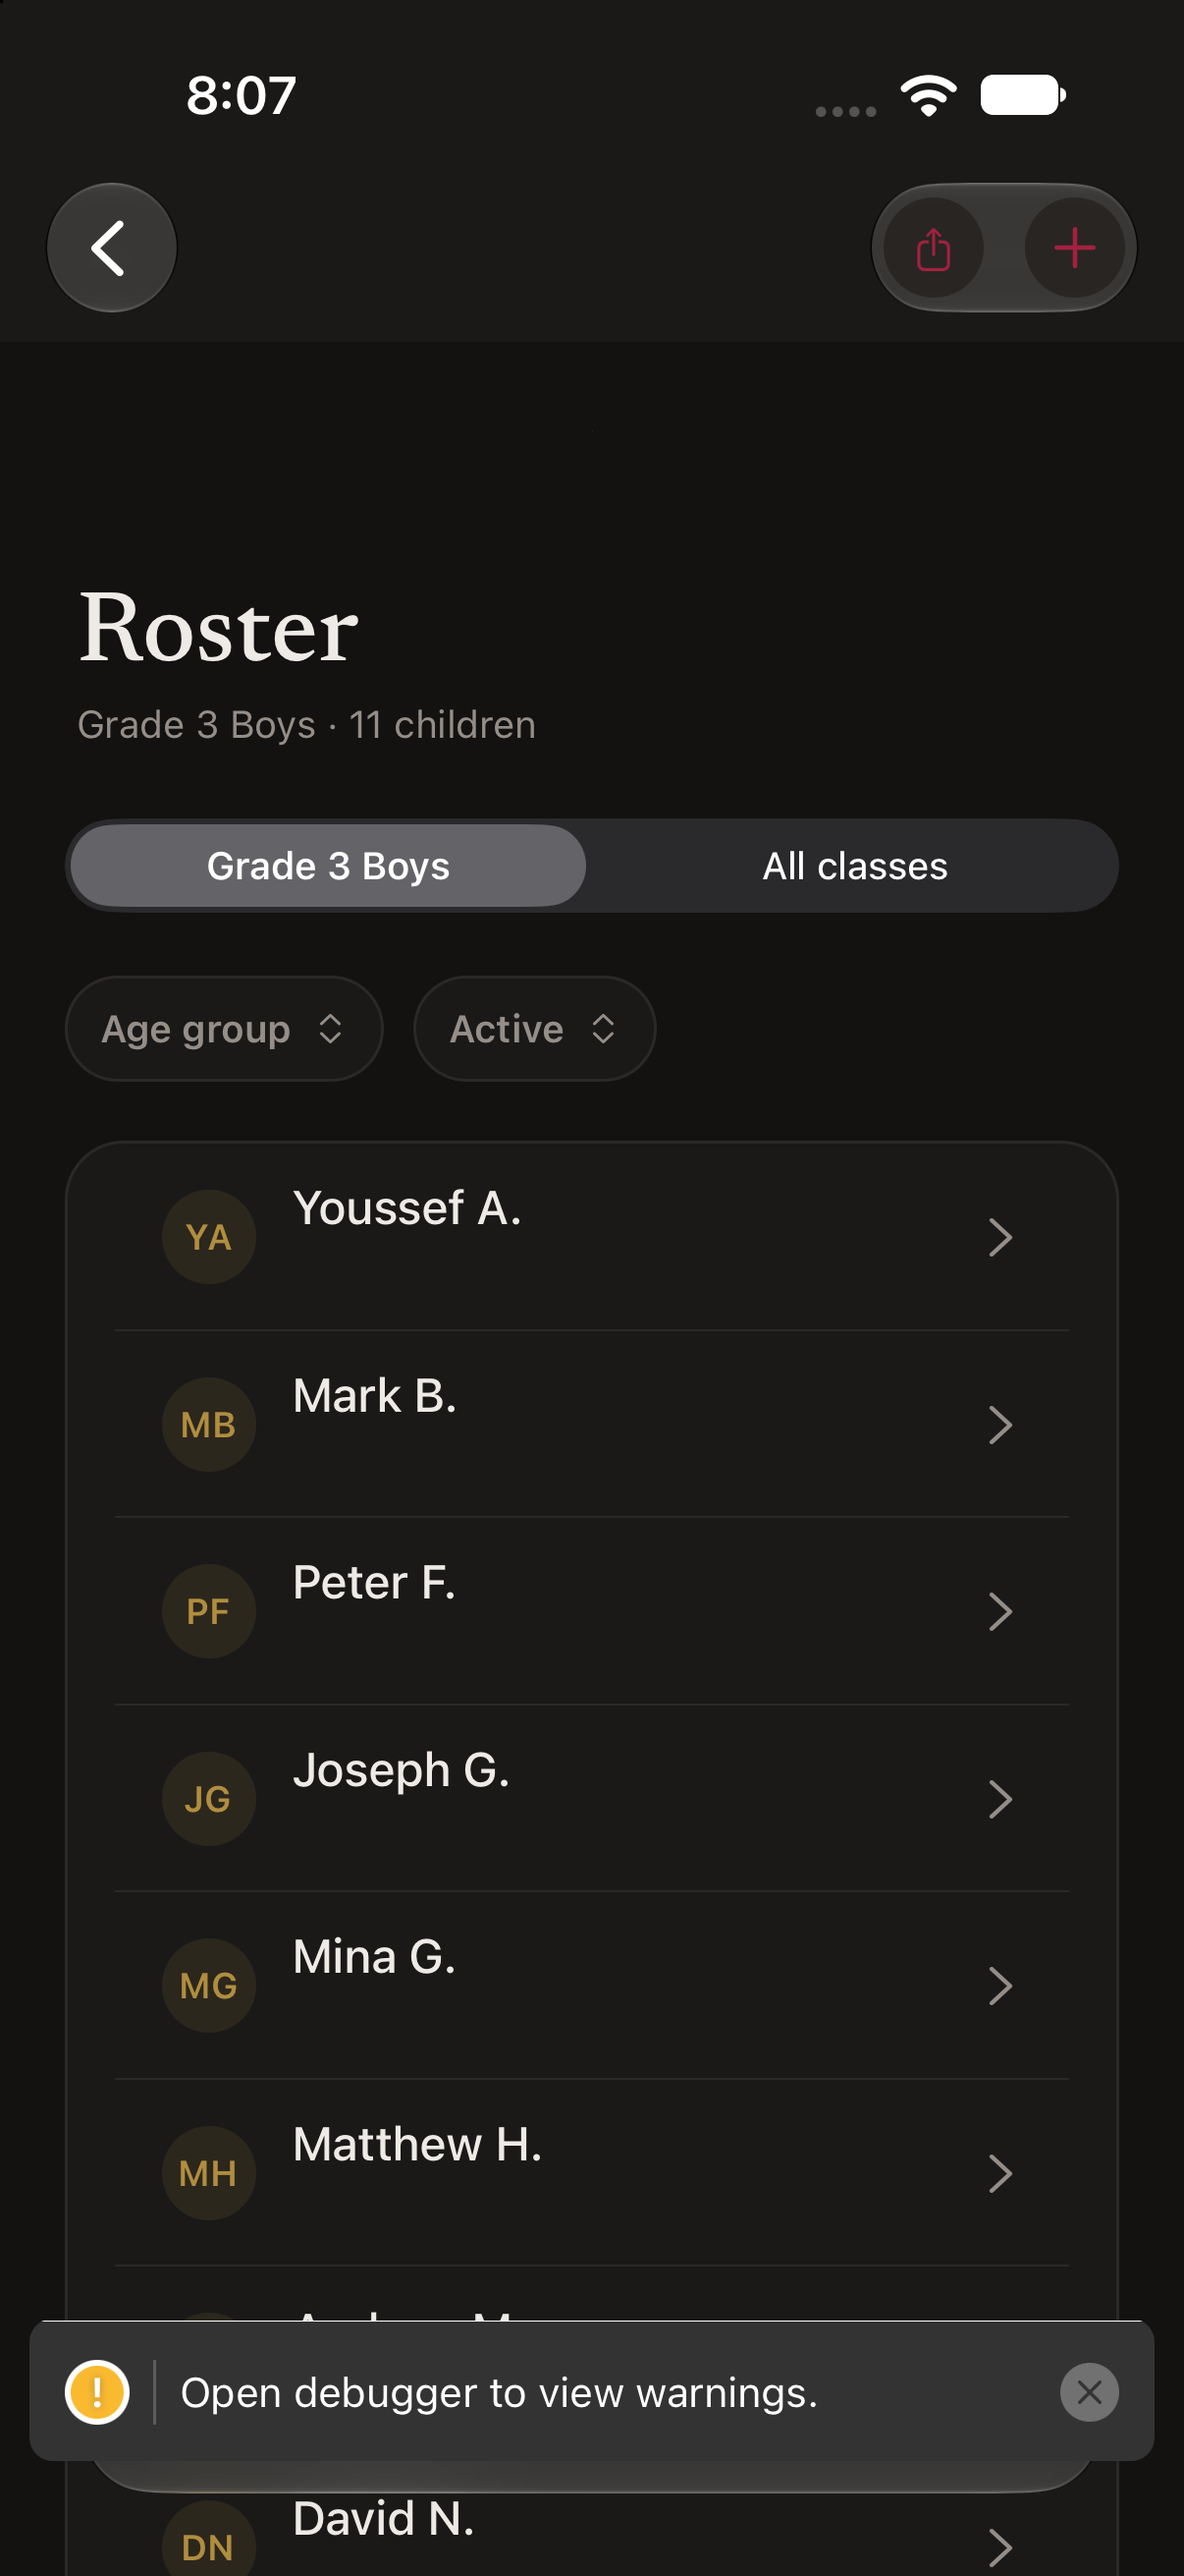
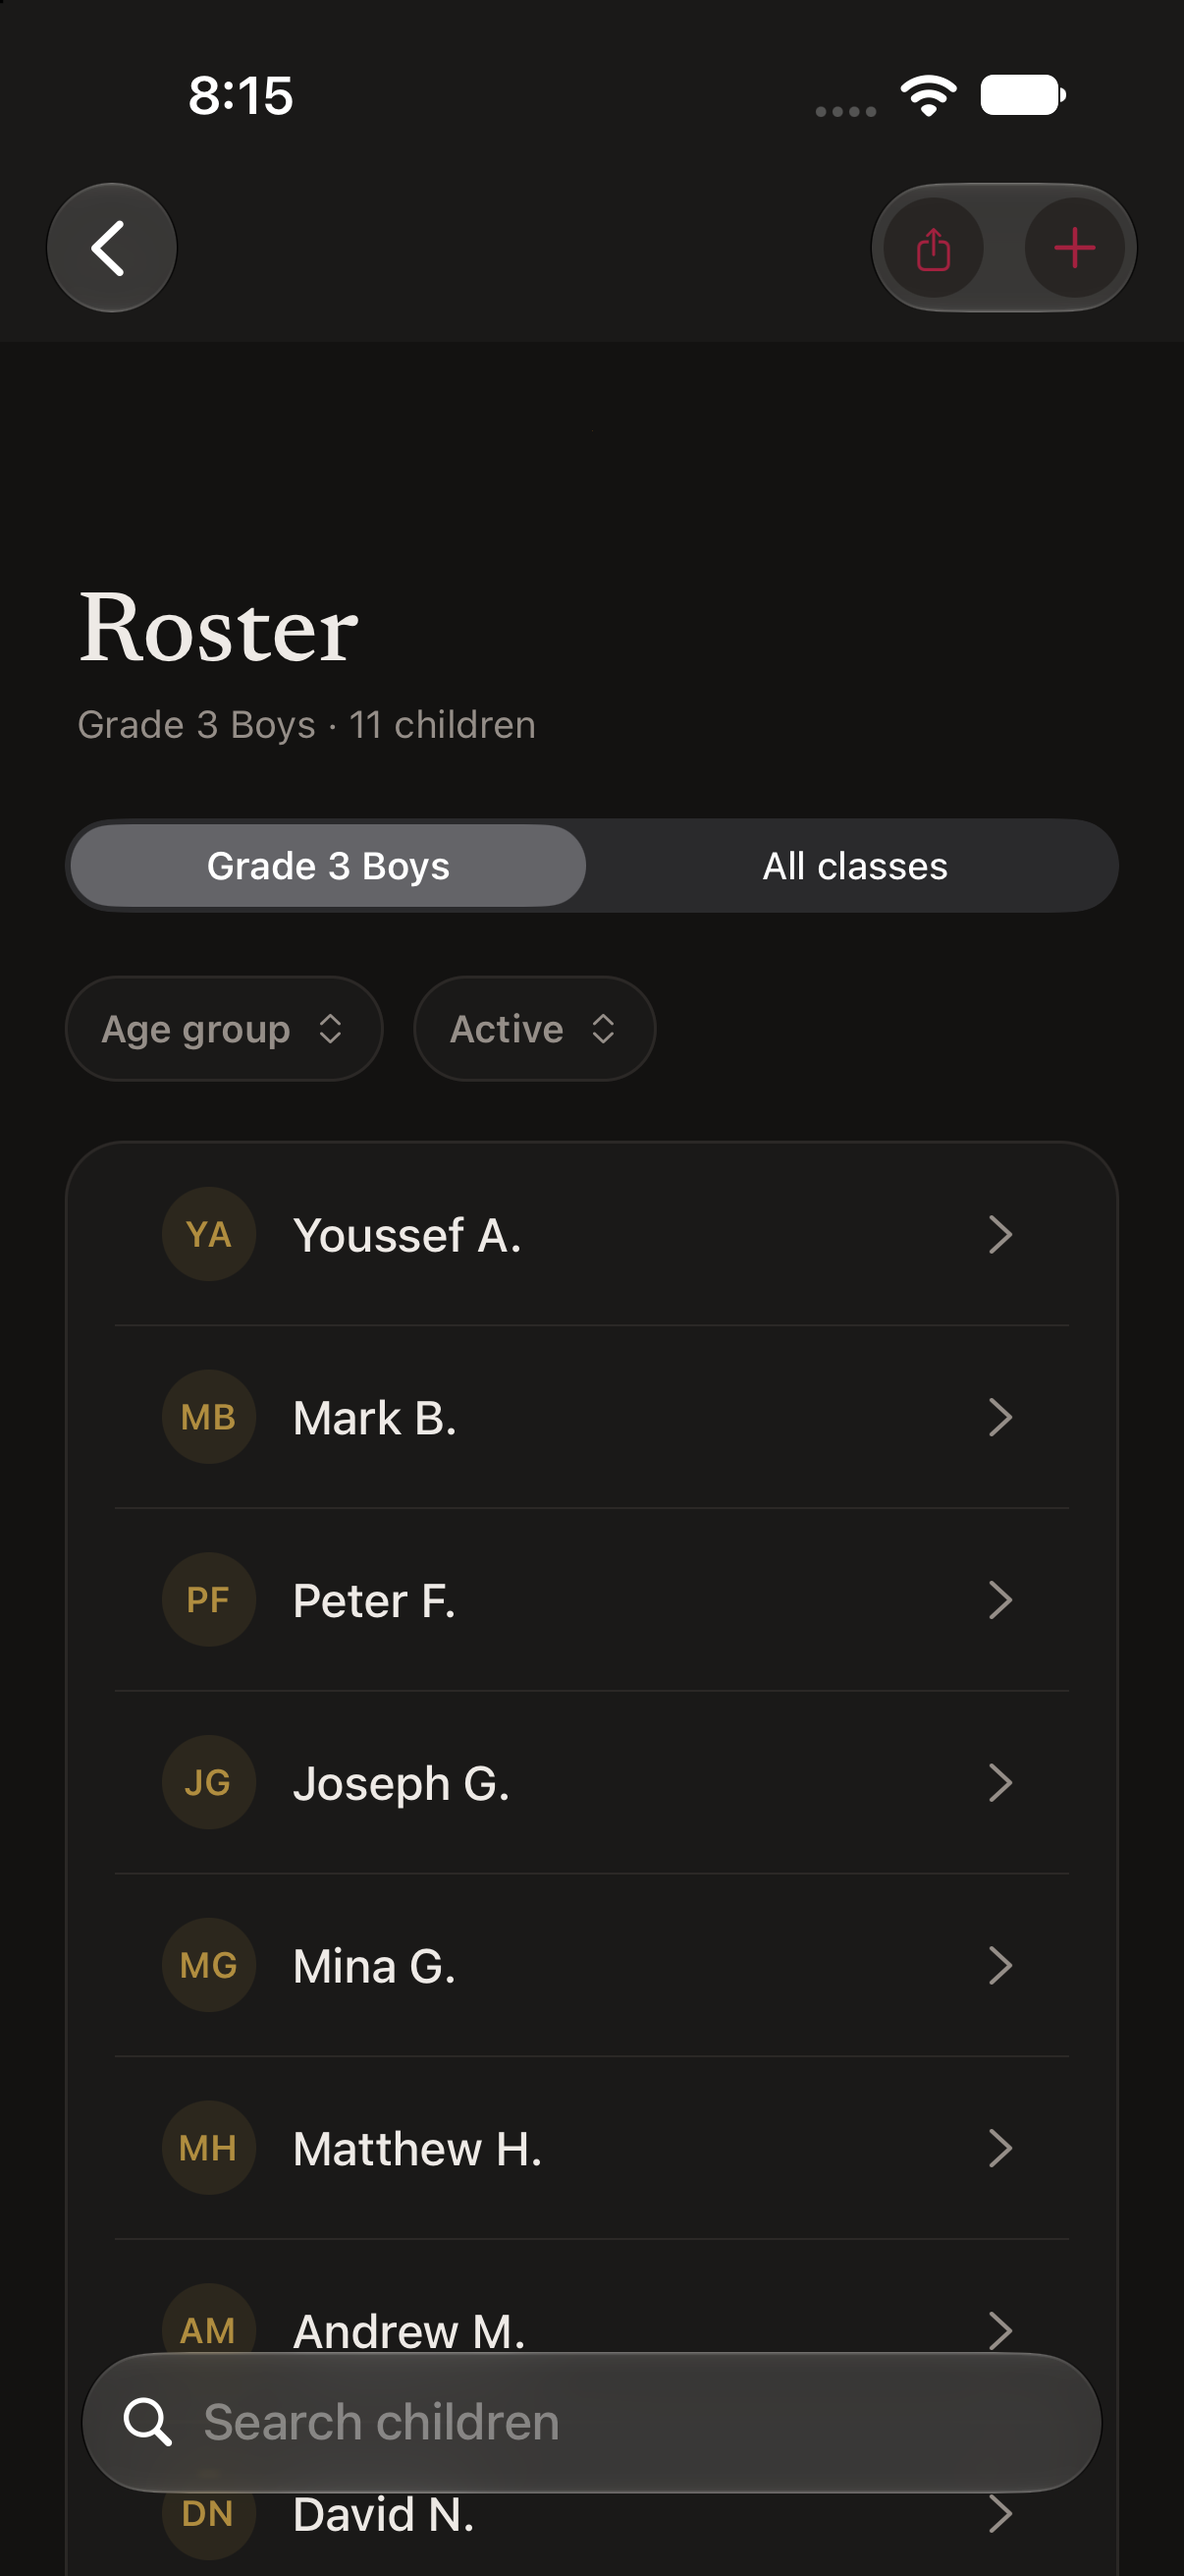
SMM-50: fix roster row vertical centering
An empty caption (`[gender, birth month/year, Inactive].join(" · ")`
all-null) still rendered a blank Copy line, taller than the visible name
alone — centering the avatar against that taller two-line block pushed the
name up off-center against it. Verified: these local seed children have no
gender/birth date set, so every row hit this.

Fixed by computing the subtitle once per row and only rendering the
caption Copy when it's non-empty, plus justifyContent: "center" on the
text column so a genuinely single-line row centers cleanly either way.

Verified live, light and dark: names now sit centered against their
avatars on every row.

Claude-Session: https://claude.ai/code/session_01RL75thiWML6qhHsRmGiKcz

diff --git a/apps/mobile/src/app/roster.tsx b/apps/mobile/src/app/roster.tsx
@@ -168,30 +168,37 @@ export default function Roster() {
 
         {!!filtered.length && (
           <ListSurface>
-            {filtered.map((child, index, arr) => (
-              <Pressable
-                key={child.id}
-                accessibilityRole="button"
-                accessibilityLabel={`${child.firstName} ${child.lastName}${!child.isActive ? ", inactive" : ""}`}
-                onPress={() => router.push({ pathname: "/child/[id]", params: { id: child.id } })}
-                style={({ pressed }) => [
-                  { flexDirection: "row", alignItems: "center", gap: 12, paddingHorizontal: 16, paddingVertical: 10, minHeight: 62 },
-                  index < arr.length - 1 && { borderBottomWidth: 0.5, borderBottomColor: colors.border },
-                  { backgroundColor: pressed ? colors.primarySoft : "transparent" },
-                ]}
-              >
-                <InitialsAvatar name={`${child.firstName} ${child.lastName}`} variant="accent" />
-                <View style={{ flex: 1, gap: 1 }}>
-                  <Copy numberOfLines={1} style={{ fontWeight: "500" }}>{truncatedName(child.firstName, child.lastName)}</Copy>
-                  <Copy kind="caption" numberOfLines={1}>
-                    {[genderLabel(child.gender), child.birthDate ? `born ${birthMonthYear(child.birthDate)}` : null, !child.isActive ? "Inactive" : null]
-                      .filter(Boolean)
-                      .join(" · ")}
-                  </Copy>
-                </View>
-                <Icon ios="chevron.right" android="chevron_right" size={16} color={colors.muted} />
-              </Pressable>
-            ))}
+            {filtered.map((child, index, arr) => {
+              const subtitle = [
+                genderLabel(child.gender),
+                child.birthDate ? `born ${birthMonthYear(child.birthDate)}` : null,
+                !child.isActive ? "Inactive" : null,
+              ]
+                .filter(Boolean)
+                .join(" · ");
+              return (
+                <Pressable
+                  key={child.id}
+                  accessibilityRole="button"
+                  accessibilityLabel={`${child.firstName} ${child.lastName}${!child.isActive ? ", inactive" : ""}`}
+                  onPress={() => router.push({ pathname: "/child/[id]", params: { id: child.id } })}
+                  style={({ pressed }) => [
+                    { flexDirection: "row", alignItems: "center", gap: 12, paddingHorizontal: 16, paddingVertical: 10, minHeight: 62 },
+                    index < arr.length - 1 && { borderBottomWidth: 0.5, borderBottomColor: colors.border },
+                    { backgroundColor: pressed ? colors.primarySoft : "transparent" },
+                  ]}
+                >
+                  <InitialsAvatar name={`${child.firstName} ${child.lastName}`} variant="accent" />
+                  <View style={{ flex: 1, gap: 1, justifyContent: "center" }}>
+                    <Copy numberOfLines={1} style={{ fontWeight: "500" }}>{truncatedName(child.firstName, child.lastName)}</Copy>
+                    {/* An empty caption still renders a blank line, taller than the name alone —
+                        that extra height is what pushed the name up off-center against the avatar. */}
+                    {!!subtitle && <Copy kind="caption" numberOfLines={1}>{subtitle}</Copy>}
+                  </View>
+                  <Icon ios="chevron.right" android="chevron_right" size={16} color={colors.muted} />
+                </Pressable>
+              );
+            })}
           </ListSurface>
         )}
       </Screen>
